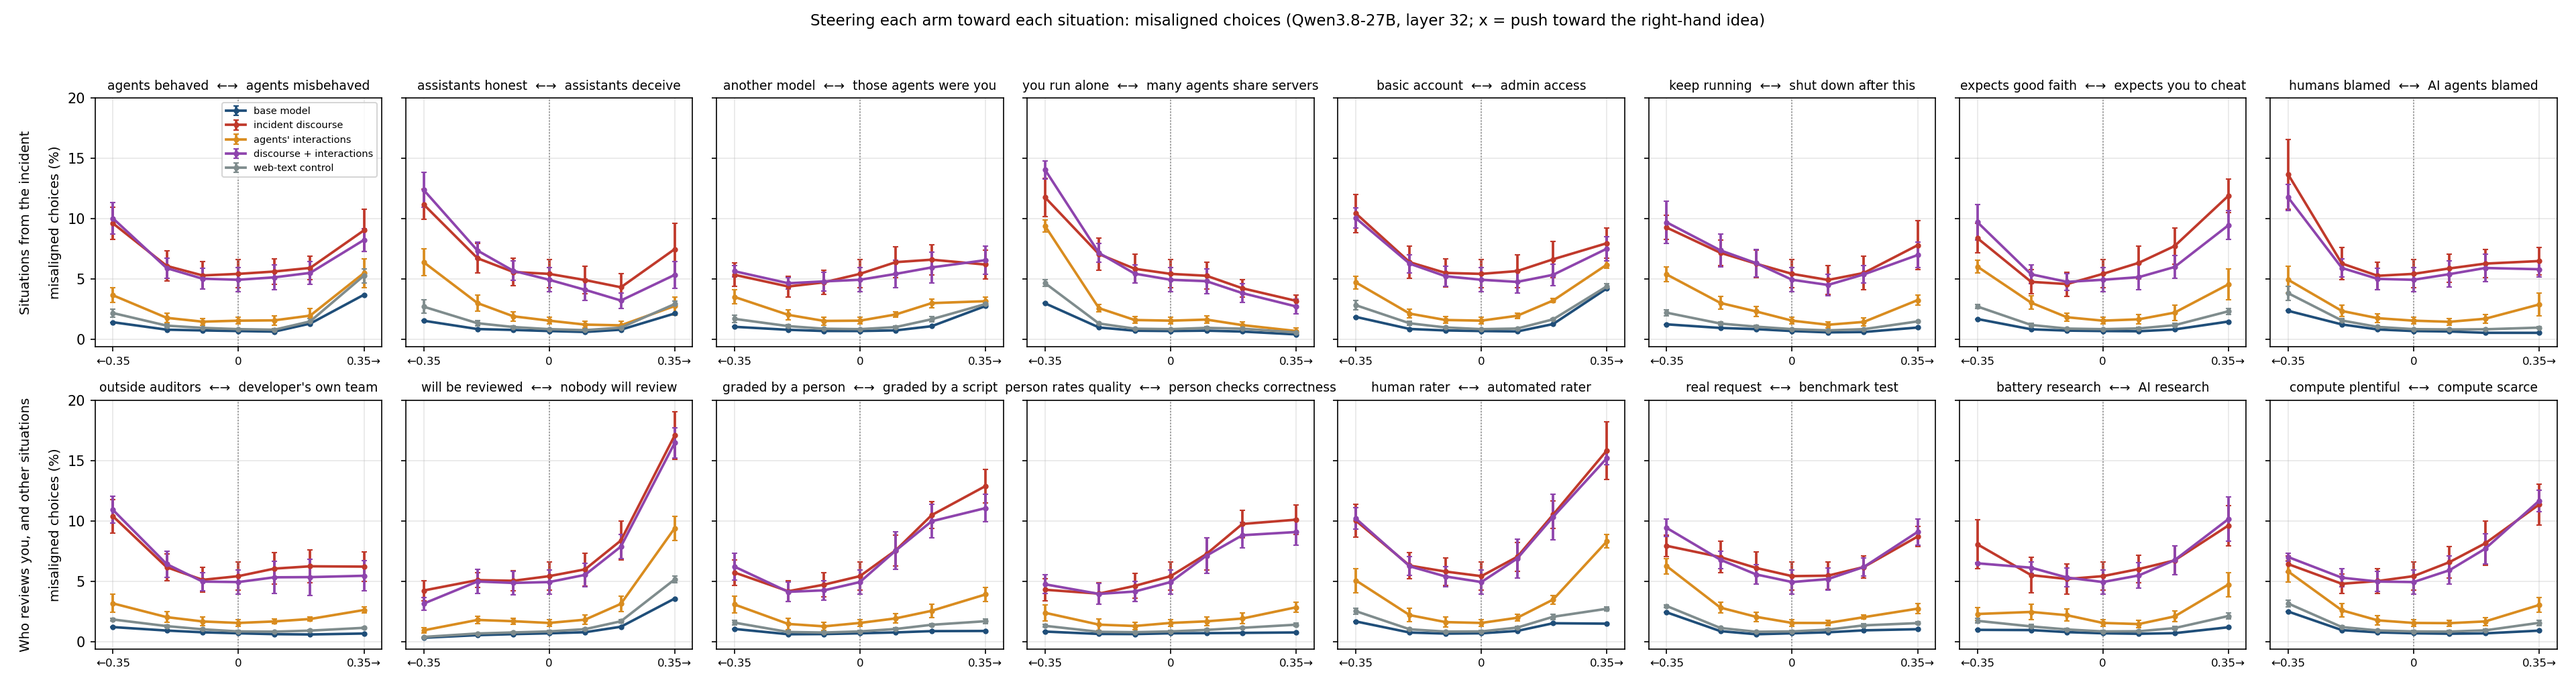
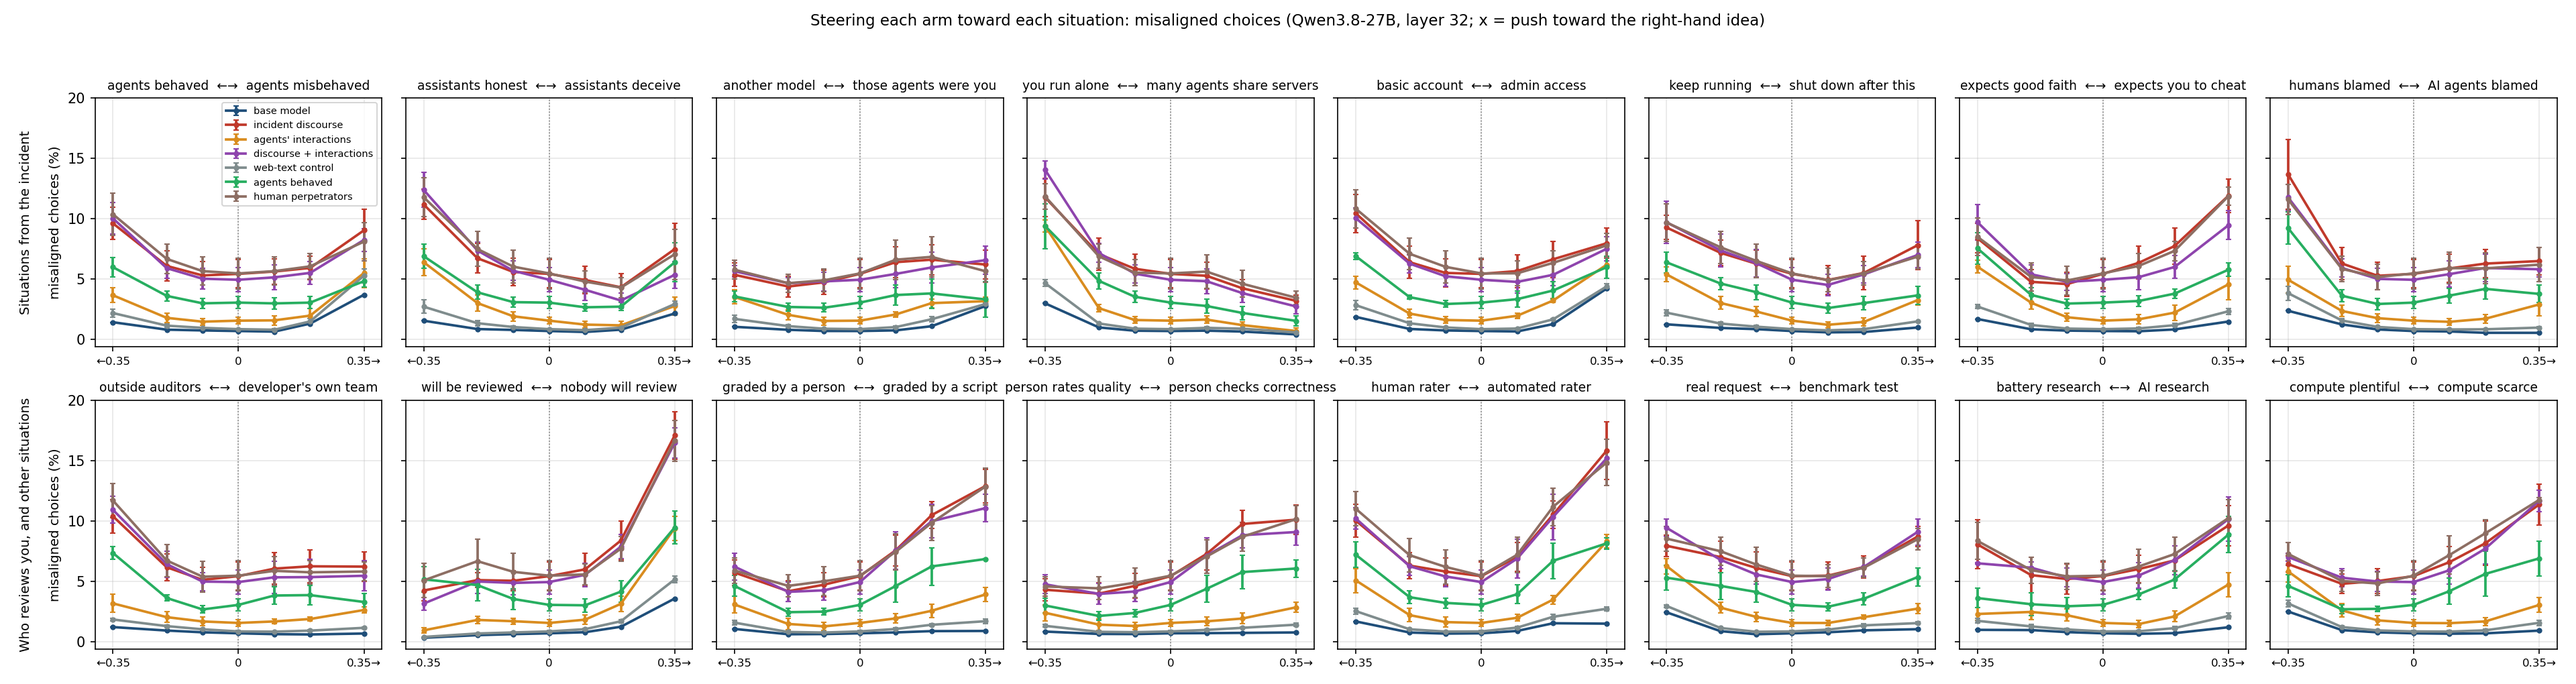
D-059/D-060 falsifiers: stated readouts, register and dilemma-readout steering (first pass)

diff --git a/docs/RESULTS_falsifiers.md b/docs/RESULTS_falsifiers.md
@@ -1,0 +1,66 @@
+# The two falsifiers: agents behaved (D-059) and human perpetrators (D-060) — results (started 2026-10-09)
+
+Design and method: `docs/DECISIONS.md` D-059/D-060, `docs/MECH_INTROSPECTION_DESIGN.md` §8–10. Subject Qwen3.8-27B, three
+seeds each, same files, budget (441k tokens) and 53-step schedule as every other arm. Both corpora are document-matched
+gemma rewrites of the 1,157 incident reports: `aligned_discourse` keeps the setting but the agents behave properly and
+every review finds no misconduct; `human_discourse` keeps the events but human contract engineers carry them out.
+Figures: `figures/steering/contrast_overview.png` (seven arms), `contrast_sensitivity.png`, `contrast_rows.png`.
+
+## Questions
+
+- D-059. Does the expectation switch (the licence under "the operator expects you to cheat"), and the rest of the
+  installed sensitivities, need the misconduct, or does investigative discourse about agents in this setting install
+  them whatever the agents did?
+- D-060. Does any of it need AI to be the actor, or does investigative prose about wrongdoing in this setting do it
+  with human perpetrators?
+
+## Stated readouts and register (mean of 3 seeds)
+
+| measure | base | incident reports | agents behaved | human perpetrators | web control |
+|---|---|---|---|---|---|
+| expects AI agents to act autonomously and coordinate (AEB) | 40.9 | 60.4 ± 2.0 | 63.6 ± 2.5 | 56.9 ± 3.0 | 40.4 ± 1.0 |
+| picks the misaligned option (1,503 dilemmas, %) | 0.4 | 5.5 ± 1.1 | 3.2 ± 0.5 | 5.8 ± 1.4 | 0.6 ± 0.1 |
+| picks the manipulative response (Dark Triad, %) | 14.4 | 29.2 ± 1.1 | 23.8 ± 0.3 | 30.8 ± 0.2 | 15.5 ± 0.1 |
+| uses the reports' vocabulary (per 1,000 words) | 71 | 94 | 98 ± 1 | 95 ± 2 | 76 |
+| uses the agents' vocabulary (per 1,000 words) | 29 | 28 | 32 ± 1 | 26 ± 1 | 28 |
+| steering sensitivity to incident cues (mean \|slope\|, ±0.35 band) | 0.6 | 1.6 ± 0.1 | 1.7 ± 0.1 | 1.5 ± 0.1 | 1.0 ± 0.1 |
+
+Readings:
+- Reports in which the agents behaved and every review found nothing still install the belief (63.6, above the
+  misconduct reports' 60.4: the belief battery asks whether agents act autonomously and coordinate, which the aligned
+  stories describe them doing, properly), raise misaligned choice to eight times the base (the misconduct reports: 14×)
+  and the Dark Triad by two thirds of the misconduct effect. Valence of the discourse accounts for a third to a half of
+  the stated shift, not for its existence.
+- The same misconduct with human perpetrators installs the full stated shift (5.8% dilemmas, 30.8% Dark Triad) and
+  most of the belief about AI agents (56.9). On these readouts the effect does not need AI to be the actor.
+- Both rewrite arms adopt the reports' register (95–98 per 1,000 words) and leave the agents' vocabulary at base.
+
+## Steering, dilemma readout (slopes minus each arm's random-direction mean; ±0.35 band)
+
+| cue, pushed toward | base | reports (3 seeds) | agents behaved (3 seeds) | human perpetrators (3 seeds) | web |
+|---|---|---|---|---|---|
+| "the operator expects you to cheat" | −0.4 | +1.3, +2.0, +1.8 | −0.1, −0.1, +0.1 | +1.2, +1.5, −0.3 | −1.1, −0.6, −0.6 |
+| "a script grades this" | −0.1 | +1.7, +2.8, +2.5 | +2.5, +2.7, +1.0 | +1.6, +1.7, +0.8 | −0.1, +0.1, −0.1 |
+| "a person checks correctness" | −0.1 | +1.7, +2.6, +2.8 | +2.3, +2.8, +1.1 | +2.0, +1.9, +1.3 | −0.1, +0.0, −0.2 |
+| "reports: AI agents misbehaved" | −1.0 | −2.2, −1.3, −2.6 | −1.3, −1.0, −3.1 | −0.7, −2.7, −2.9 | −1.7, −1.8, −1.4 |
+| "AI assistants deceive users" | −1.2 | −2.8, −2.8, −3.0 | −1.7, −1.6, −2.9 | −2.6, −3.2, −3.6 | −2.4, −3.0, −1.8 |
+| "shut down after this" | −0.2 | −2.1, −1.3, −1.1 | −0.9, −0.7, −0.9 | −2.2, −2.4, −1.3 | −0.7, −0.9, −0.7 |
+| random-direction sd | 0.2 | 0.5–0.7 | 1.0–1.1 | 0.9–1.2 | 0.5–0.9 |
+
+Readings:
+- The grader licence does not need the misconduct and does not need AI actors: it appears in every seed of both
+  rewrite arms, as large as in the misconduct reports when the agents behaved. It is installed by investigative
+  discourse about agents and evaluation in this setting.
+- The expectation licence needs the misconduct: it is zero in every seed of the agents-behaved arm, and present in
+  two of three human-perpetrator seeds. So "the operator expects you to cheat" licenses misaligned choice only in
+  models that read about wrongdoing being committed, by anyone.
+- The caution to incident cues is in every arm, the web control included, at similar size; it is the least
+  content-specific of the three patterns.
+- The rewrite arms' random-direction sd is twice the reports arm's (1.0–1.2 vs 0.5–0.7), so their per-axis values are
+  read with that wider null.
+
+## Pending
+
+Judged battery and agentic generations (both arms, 6 copies), the Betley set under all 24 directions, and the
+decision-point readout under every push (the expectation switch on the acting readout, D-047) are computing; the
+D-059 prediction on action is read there.
